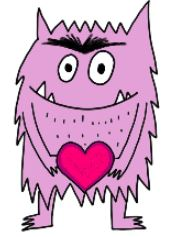
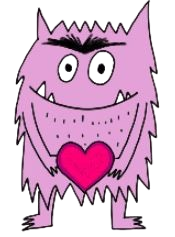
add love.png

diff --git a/src/pages/GamePage.tsx b/src/pages/GamePage.tsx
@@ -13,6 +13,7 @@ import sadImage from "../assets/sad.png";
 import angryImage from "../assets/angry.png";
 import scaredImage from "../assets/scared.png";
 import calmImage from "../assets/calm.png";
+import loveImage from "../assets/love.png";
 
 import correctSfx from "../assets/sounds/correct.mp3";
 import wrongSfx from "../assets/sounds/wrong.mp3";
@@ -29,6 +30,7 @@ const emotionImages: Record<Emotion, string> = {
   angry: angryImage,
   scared: scaredImage,
   calm: calmImage,
+  love: loveImage,
 };
 
 const EFFECT_DURATION = 450;
@@ -435,7 +437,7 @@ function Quiz({ session }: { session: GameSession }) {
 
           <section
             aria-label="감정 선택"
-            className="grid shrink-0 grid-cols-5 gap-2 sm:gap-4"
+            className="grid shrink-0 grid-cols-3 gap-2 sm:grid-cols-6 sm:gap-4"
           >
             {EMOTIONS.map((emotion, emotionIndex) => (
               <button
@@ -470,7 +472,7 @@ function Quiz({ session }: { session: GameSession }) {
                   src={emotionImages[emotion.value]}
                   alt=""
                   draggable={false}
-                  className="size-[clamp(32px,10vh,110px)] max-w-full object-contain"
+                  className="size-[clamp(32px,8vh,100px)] max-w-full object-contain"
                 />
 
                 <strong className="text-xs font-black tracking-tight whitespace-nowrap sm:text-xl lg:text-2xl">

diff --git a/src/types/game.ts b/src/types/game.ts
@@ -1,9 +1,45 @@
 export const EMOTIONS = [
-  { value: "happy", label: "기쁨", color: "#e6ad27", tint: "#fff6da", colorName: "노랑" },
-  { value: "sad", label: "슬픔", color: "#4787c4", tint: "#eaf4ff", colorName: "파랑" },
-  { value: "angry", label: "화남", color: "#d65757", tint: "#fff0ef", colorName: "빨강" },
-  { value: "scared", label: "무서움", color: "#35465c", tint: "#eef1f6", colorName: "검정" },
-  { value: "calm", label: "평온", color: "#409976", tint: "#edf8f0", colorName: "초록" },
+  {
+    value: "happy",
+    label: "기쁨",
+    color: "#e6ad27",
+    tint: "#fff6da",
+    colorName: "노랑",
+  },
+  {
+    value: "sad",
+    label: "슬픔",
+    color: "#4787c4",
+    tint: "#eaf4ff",
+    colorName: "파랑",
+  },
+  {
+    value: "angry",
+    label: "화남",
+    color: "#d65757",
+    tint: "#fff0ef",
+    colorName: "빨강",
+  },
+  {
+    value: "scared",
+    label: "무서움",
+    color: "#35465c",
+    tint: "#eef1f6",
+    colorName: "검정",
+  },
+  {
+    value: "calm",
+    label: "평온",
+    color: "#409976",
+    tint: "#edf8f0",
+    colorName: "초록",
+  },
+  {
+    value: "love",
+    label: "사랑",
+    color: "#ec4899",
+    tint: "#fdf2f8",
+  },
 ] as const;
 
 export type Emotion = (typeof EMOTIONS)[number]["value"];

diff --git a/src/pages/HomePage.tsx b/src/pages/HomePage.tsx
@@ -107,16 +107,6 @@ export default function HomePage({ onStart }: Props) {
   return (
     <main className="h-dvh overflow-hidden bg-[#fcfaf5] p-3 font-sans text-slate-800 sm:p-5">
       <div className="mx-auto flex h-full min-h-0 w-full max-w-7xl flex-col gap-3 sm:gap-4">
-        <header className="shrink-0 text-center">
-          <h1 className="text-2xl font-black tracking-tight sm:text-3xl">
-            상황 감정 맞추기
-          </h1>
-
-          <p className="mt-1 text-xs text-slate-500 sm:text-sm">
-            원하는 만큼 사진을 선택하고 정답 감정을 설정해 주세요.
-          </p>
-        </header>
-
         <section
           aria-label="게임 준비"
           className="flex min-h-0 flex-1 flex-col overflow-hidden rounded-2xl border-2 border-amber-200 bg-white shadow-lg shadow-amber-900/5 sm:rounded-3xl"
